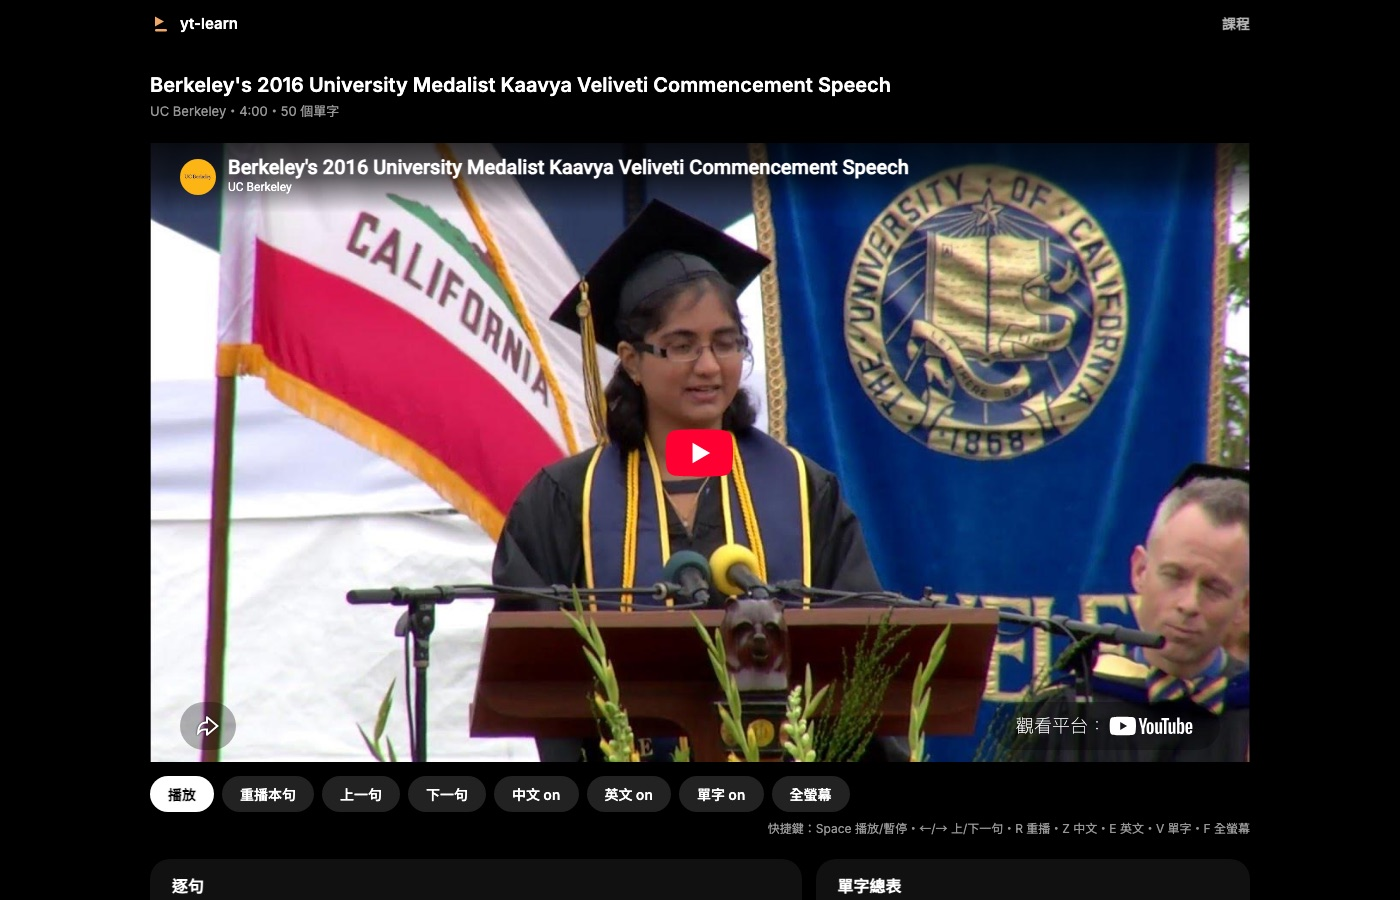
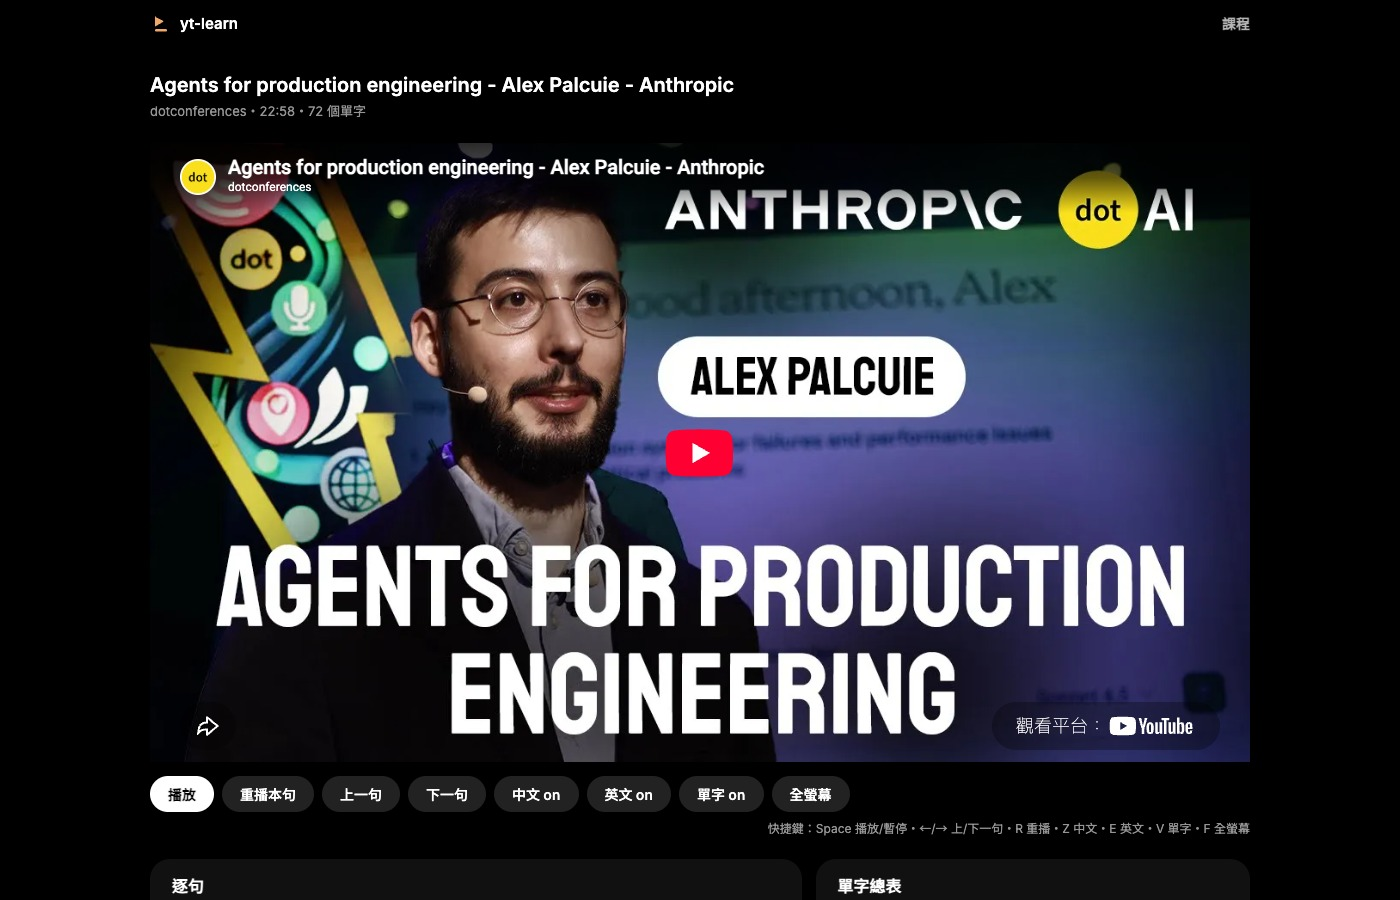
docs: README screenshots and source credit from the CC BY dotconferences lesson (puh91fohvTA)

diff --git a/README.md b/README.md
@@ -80,7 +80,7 @@ node --test tests/web/                           # 播放器純函式
 
 ## 素材出處
 
-截圖與介紹片裡的影片畫面來自 UC Berkeley 上傳的〈Berkeley's 2016 University Medalist Kaavya Veliveti Commencement Speech〉（<https://www.youtube.com/watch?v=h3oSkfUGw5c>），YouTube 標示為「創用 CC 姓名標示」授權。播放器本身只嵌入 YouTube 播放器，不複製任何影片內容。
+截圖與介紹片裡的影片畫面來自 dotconferences 上傳的〈Agents for production engineering - Alex Palcuie - Anthropic〉（<https://www.youtube.com/watch?v=puh91fohvTA>），YouTube 標示為「創用 CC 姓名標示」授權（CC BY）。播放器本身只嵌入 YouTube 播放器，不複製任何影片內容。
 
 ## 開發紀錄
 
